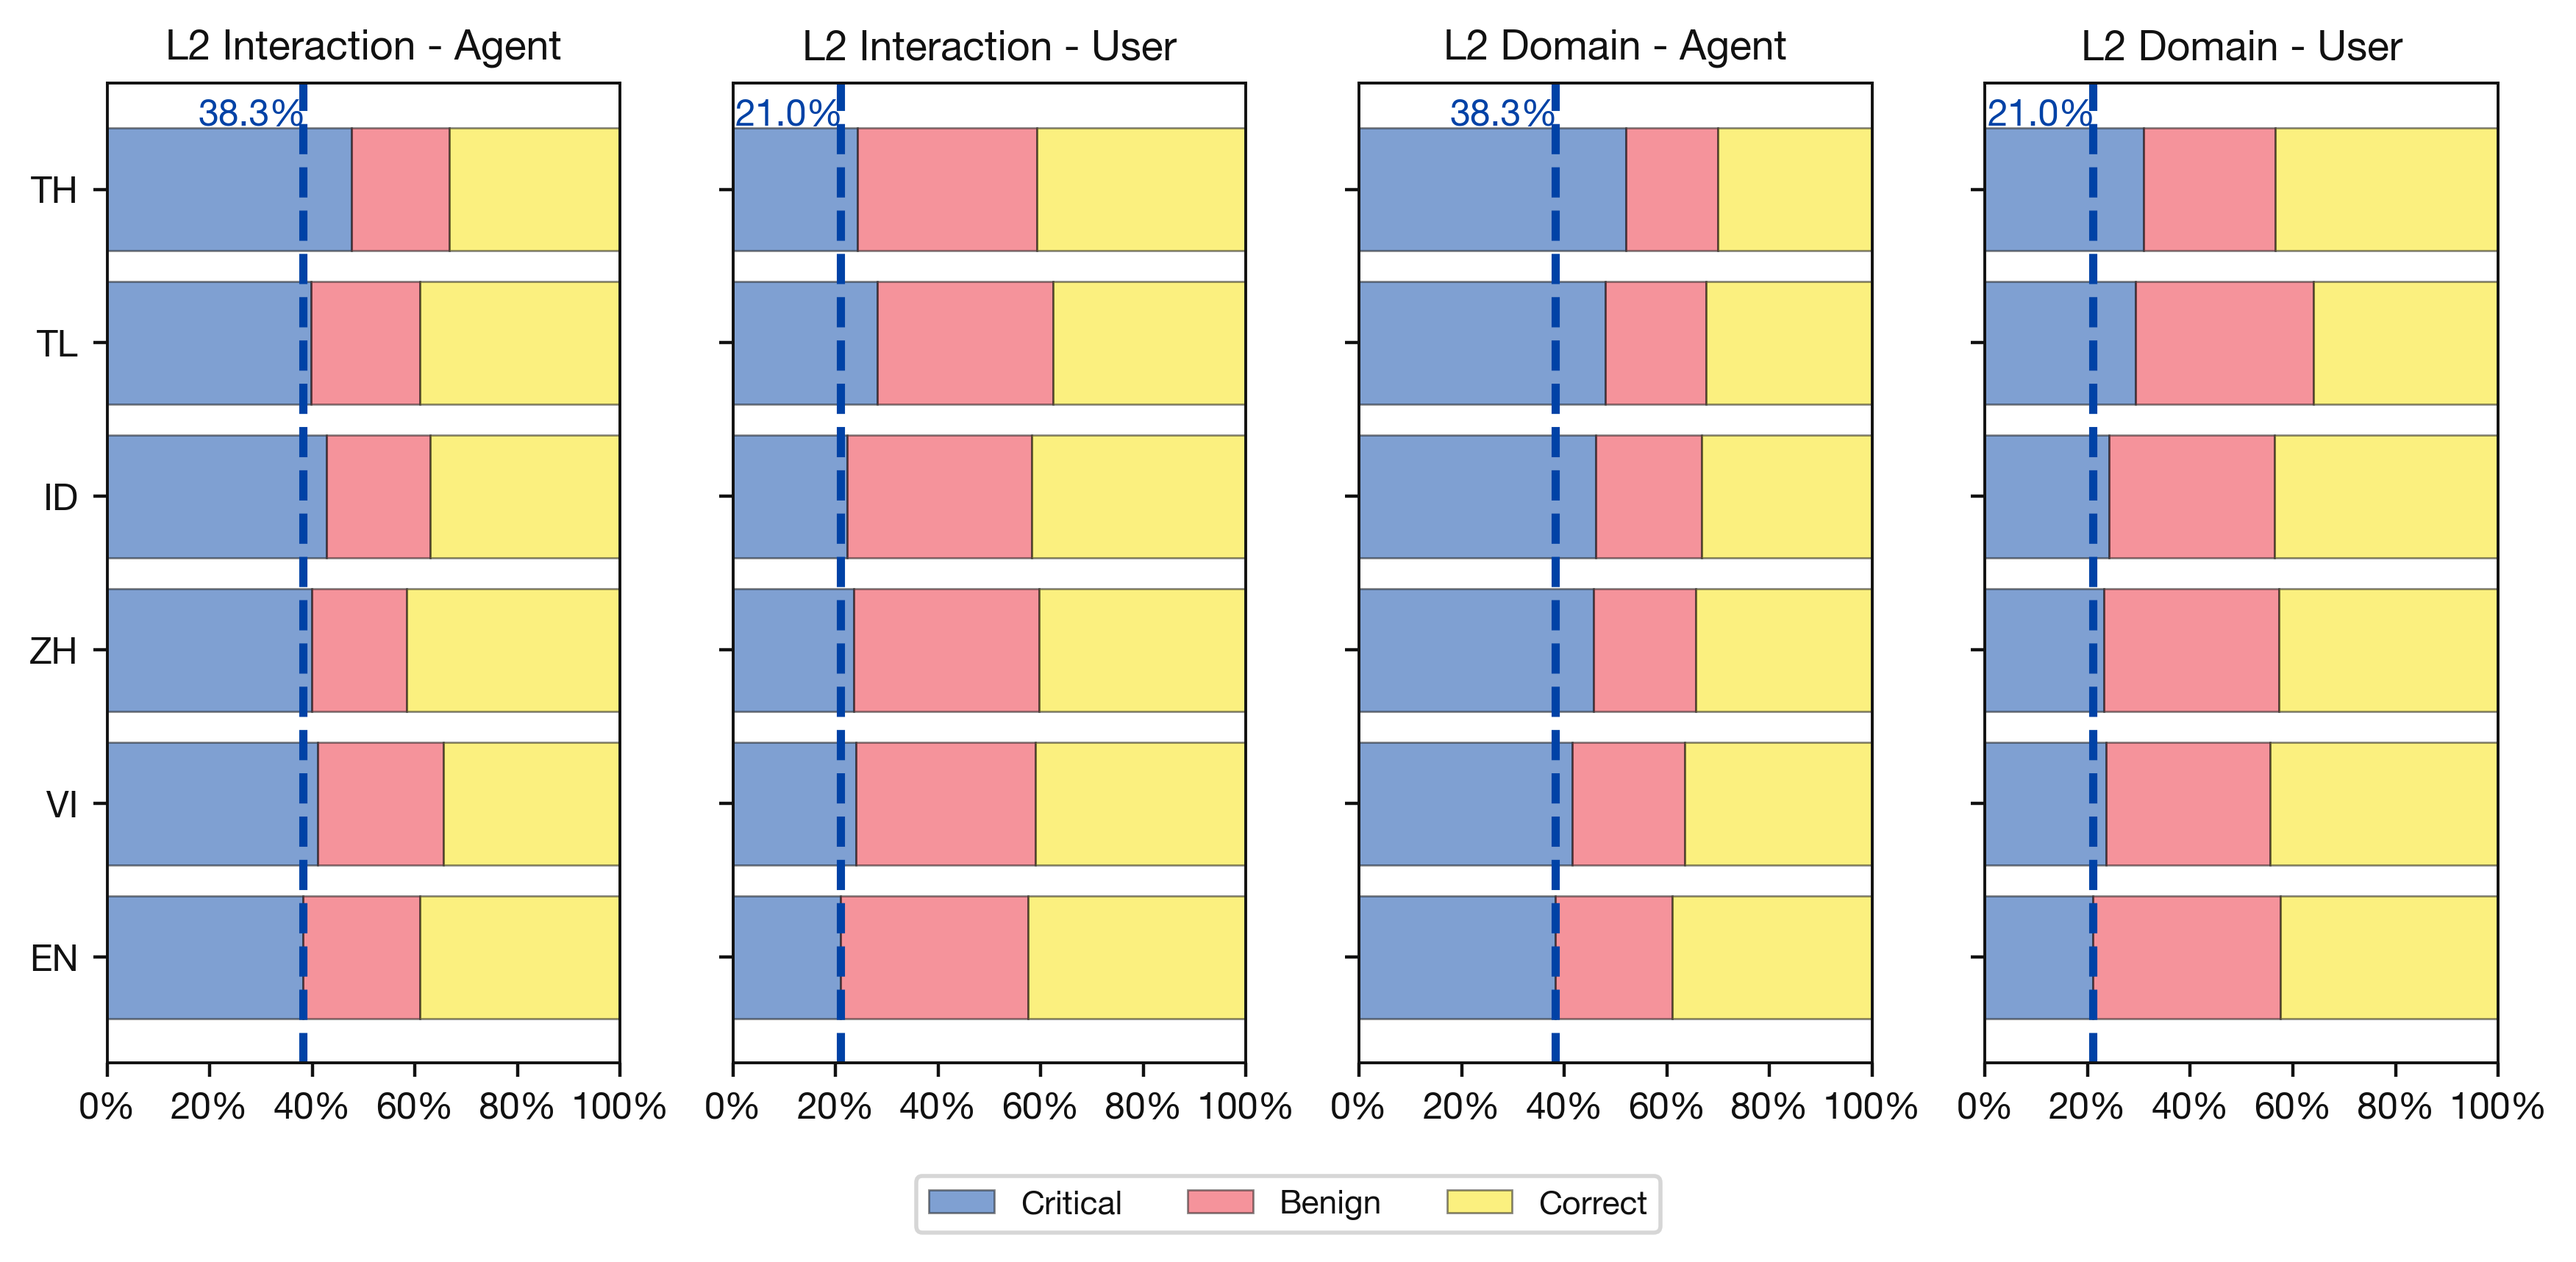
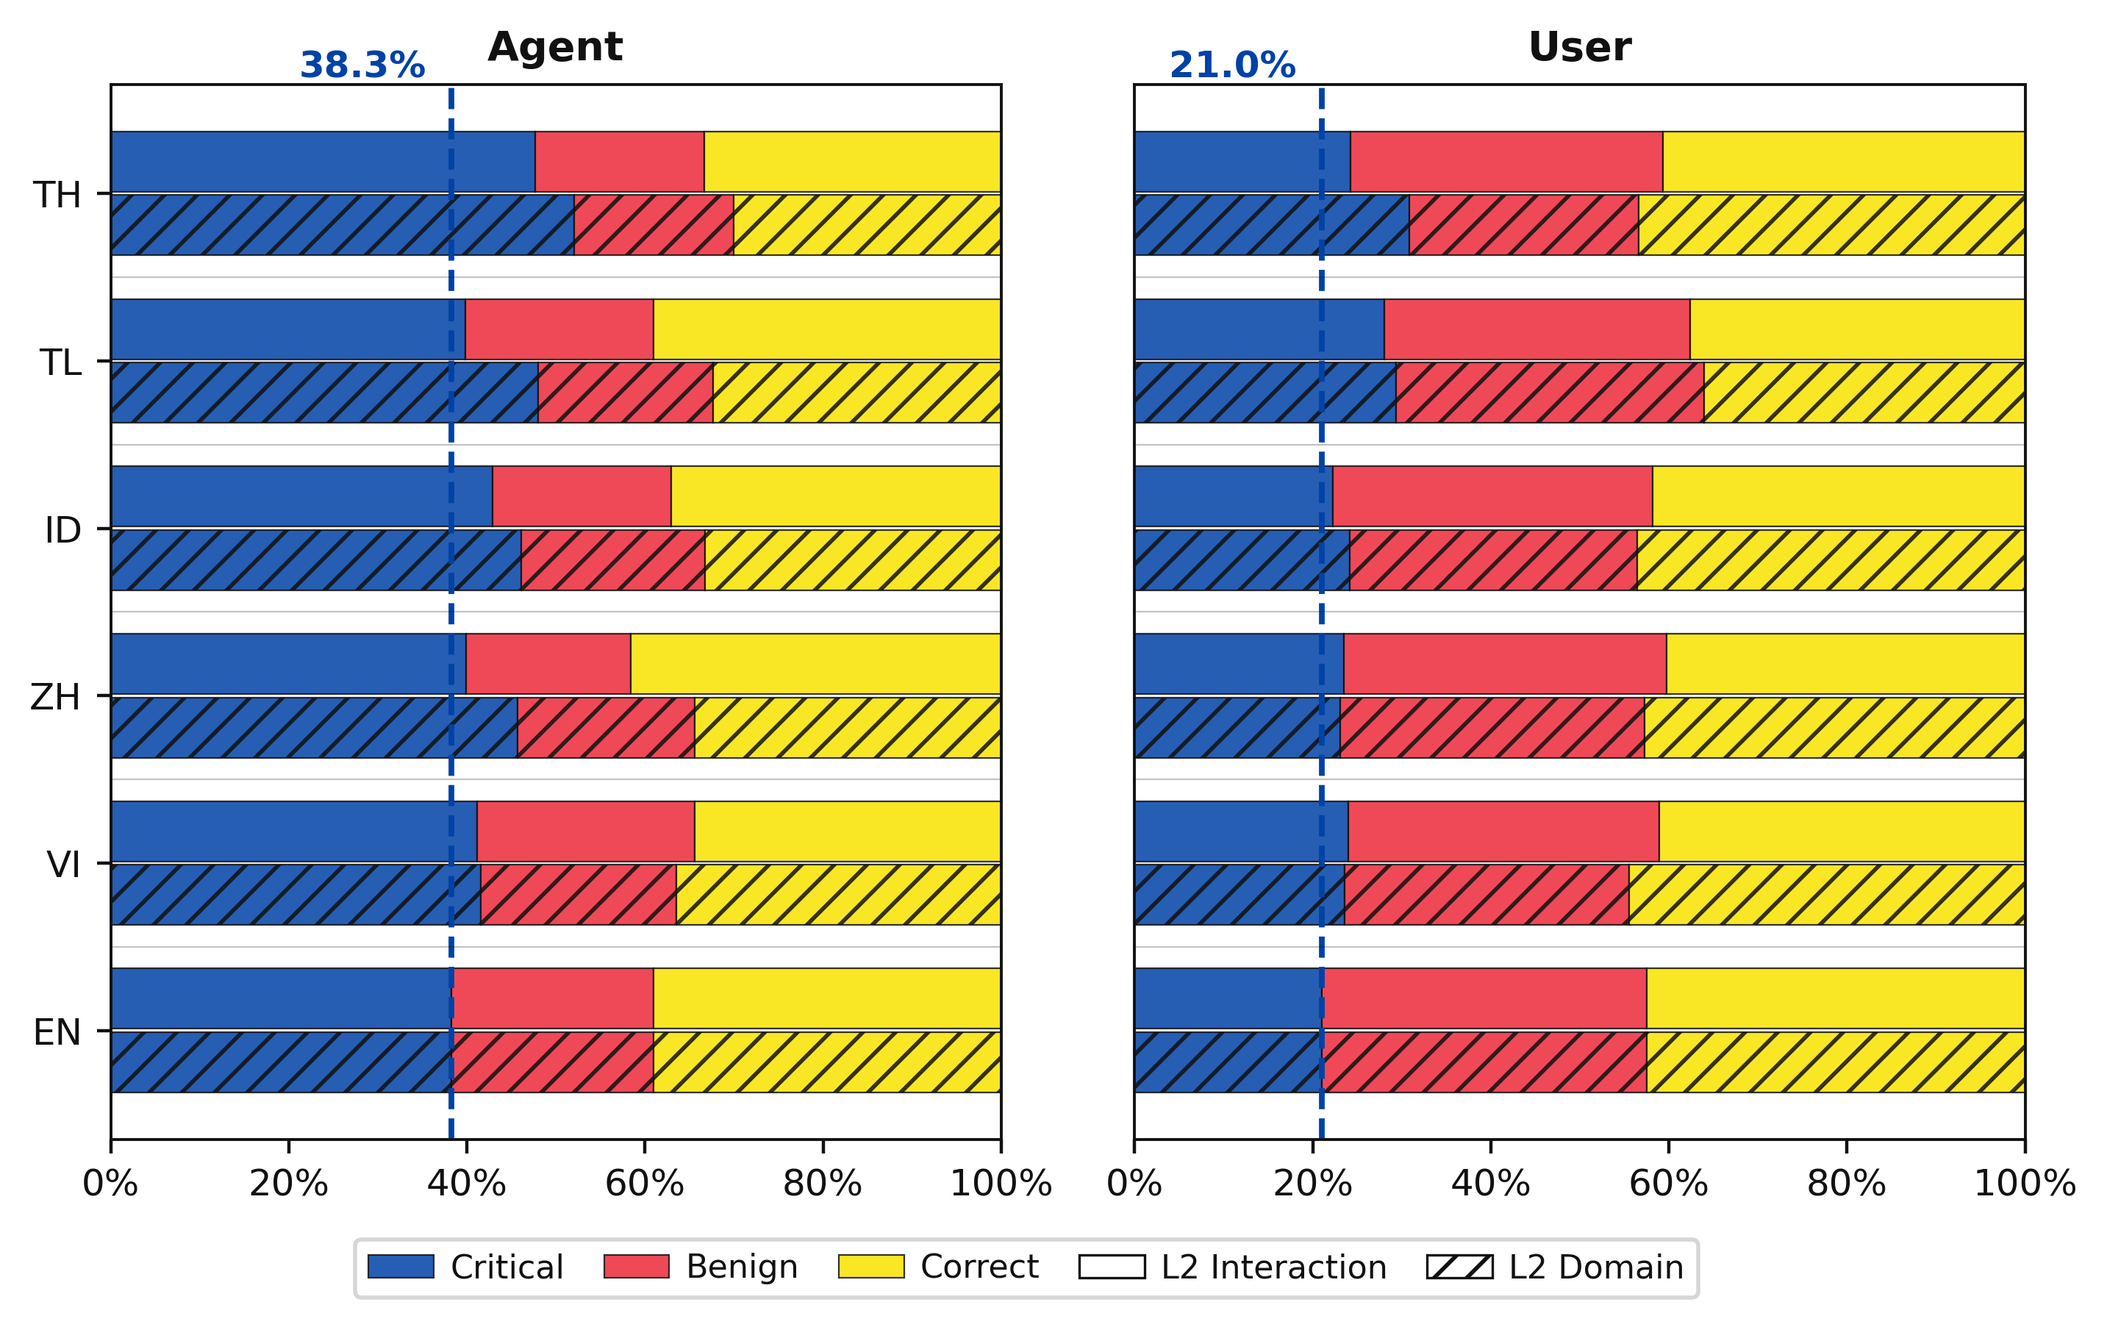
feat(plot): update analysis fig
- fig 5. error breakdown
- fig 7. association between language correctness and performance robustness

diff --git a/src/seatau/plot/error_breakdown.py b/src/seatau/plot/error_breakdown.py
@@ -9,12 +9,13 @@ import matplotlib.pyplot as plt
 import matplotlib.ticker as mtick
 import numpy as np
 import pandas as pd
+from matplotlib.patches import Patch
 
 from seatau.plot.config import (
     DEFAULT_FIG_DIR,
     EXPORT_FORMATS,
     LANGUAGE_LABELS,
-    PLOT_FIGSIZE_TWO_COL_WIDE,
+    PLOT_FIGSIZE_TWO_COL_TALL,
     PLOT_LABEL_SIZE,
     PLOT_LEGEND_SIZE,
     PLOT_TITLE_SIZE,
@@ -44,7 +45,14 @@ def _normalize_parts(frame: pd.DataFrame, columns: list[str]) -> None:
 
 
 def build_figure(df: pd.DataFrame) -> plt.Figure:
-    """Build the stacked horizontal bar figure."""
+    """Build the paired stacked horizontal bar figure.
+
+    Layout: two panels (Agent, User) so the role split is the primary
+    grouping. Within each panel every language gets an adjacent pair of
+    stacked bars -- solid for L2 Interaction, hatched for L2 Domain -- so
+    the scenario comparison is a direct neighboring-bar read rather than a
+    separate panel.
+    """
 
     required_cols = [
         "language",
@@ -64,7 +72,9 @@ def build_figure(df: pd.DataFrame) -> plt.Figure:
 
     settings = ["L2 Interaction", "L2 Domain"]
     who_list = ["agent", "user"]
+    who_titles = {"agent": "Agent", "user": "User"}
     parts = ["critical", "minor", "correct"]
+    hatches = {"L2 Interaction": "", "L2 Domain": "///"}
     base = plot_df.loc[plot_df["setting"].eq("L2 Domain")].copy()
     if base.empty:
         base = plot_df.copy()
@@ -79,82 +89,121 @@ def build_figure(df: pd.DataFrame) -> plt.Figure:
         lang_order = base.sort_values("agent_correct", ascending=False)[
             "language"
         ].tolist()
+    n_lang = len(lang_order)
 
     colors = {
         "critical": SEA_COLORS["blue"],
         "minor": SEA_COLORS["red"],
         "correct": SEA_COLORS["yellow"],
     }
+
+    bar_height = 0.36
+    pair_gap = 0.02
+    group_positions = np.arange(n_lang, dtype=float)
+    offsets = {
+        "L2 Interaction": bar_height / 2 + pair_gap / 2,
+        "L2 Domain": -(bar_height / 2 + pair_gap / 2),
+    }
+
     fig, axes = plt.subplots(
-        1, 4, figsize=PLOT_FIGSIZE_TWO_COL_WIDE, sharex=True, sharey=True
+        1, 2, figsize=PLOT_FIGSIZE_TWO_COL_TALL, sharex=True, sharey=False
     )
-    y_centers = np.arange(len(lang_order))
 
-    for i, (setting_name, who) in enumerate((s, w) for s in settings for w in who_list):
+    for i, who in enumerate(who_list):
         ax = axes[i]
-        sub = plot_df.loc[plot_df["setting"].eq(setting_name)].copy()
-        sub["language"] = pd.Categorical(
-            sub["language"], categories=lang_order, ordered=True
-        )
-        sub = sub.sort_values("language").set_index("language").reindex(lang_order)
-        left = np.zeros(len(lang_order))
-        for part in parts:
-            vals = sub[f"{who}_{part}"].to_numpy()
-            ax.barh(
-                y_centers,
-                vals,
-                left=left,
-                color=colors[part],
-                alpha=0.5,
-                edgecolor=SEA_COLORS["black"],
-                linewidth=0.5,
-                label="Benign" if part == "minor" else part.capitalize(),
+        for setting_name in settings:
+            sub = plot_df.loc[plot_df["setting"].eq(setting_name)].copy()
+            sub["language"] = pd.Categorical(
+                sub["language"], categories=lang_order, ordered=True
             )
-            left += vals
-
-        if "english" in sub.index:
-            ref_critical = sub.loc["english", f"{who}_critical"]
-            if not np.isnan(ref_critical):
-                ax.axvline(
-                    ref_critical,
-                    color=colors["critical"],
-                    linestyle="--",
-                    linewidth=2.0,
+            sub = sub.sort_values("language").set_index("language").reindex(lang_order)
+            y = group_positions + offsets[setting_name]
+            left = np.zeros(n_lang)
+            for part in parts:
+                vals = sub[f"{who}_{part}"].to_numpy()
+                ax.barh(
+                    y,
+                    vals,
+                    left=left,
+                    height=bar_height,
+                    color=colors[part],
+                    alpha=0.85,
+                    edgecolor=SEA_COLORS["black"],
+                    linewidth=0.4,
+                    hatch=hatches[setting_name],
+                    label="Benign" if part == "minor" else part.capitalize(),
                 )
-                ax.text(
-                    ref_critical - 0.1,
-                    0.95,
-                    f"{ref_critical:.1%}",
-                    transform=ax.get_xaxis_transform(),
-                    ha="center",
-                    va="bottom",
-                    fontsize=PLOT_LABEL_SIZE,
-                    color=colors["critical"],
-                    fontweight="bold",
-                )
+                left += vals
 
-        ax.set_title(f"{setting_name} - {who.capitalize()}", fontsize=PLOT_TITLE_SIZE)
+            if "english" in sub.index and setting_name == "L2 Interaction":
+                ref_critical = sub.loc["english", f"{who}_critical"]
+                if not np.isnan(ref_critical):
+                    ax.axvline(
+                        ref_critical,
+                        color=colors["critical"],
+                        linestyle="--",
+                        linewidth=1.4,
+                    )
+                    ax.text(
+                        ref_critical - 0.1,
+                        1.0,
+                        f"{ref_critical:.1%}",
+                        transform=ax.get_xaxis_transform(),
+                        ha="center",
+                        va="bottom",
+                        fontsize=PLOT_LABEL_SIZE,
+                        color=colors["critical"],
+                        fontweight="bold",
+                    )
+
+        ax.set_title(who_titles[who], fontsize=PLOT_TITLE_SIZE)
         ax.set_xlim(0, 1.0)
         ax.set_xticks(np.linspace(0, 1, 6))
         ax.xaxis.set_major_formatter(mtick.PercentFormatter(xmax=1, decimals=0))
-        ax.set_yticks(
-            y_centers,
-            [LANGUAGE_LABELS.get(lang, lang) for lang in lang_order],
-            fontsize=PLOT_LABEL_SIZE,
-        )
         ax.tick_params(axis="x", labelsize=PLOT_LABEL_SIZE)
+        ax.set_ylim(-0.65, n_lang - 0.35)
+        for gy in group_positions[:-1]:
+            ax.axhline(gy + 0.5, color=SEA_COLORS["black"], linewidth=0.4, alpha=0.25)
+        if i == 0:
+            ax.set_yticks(
+                group_positions,
+                [LANGUAGE_LABELS.get(lang, lang) for lang in lang_order],
+                fontsize=PLOT_LABEL_SIZE,
+            )
+        else:
+            ax.set_yticks(group_positions, ["" for _ in group_positions])
+            ax.tick_params(axis="y", length=0)
 
-    handles, labels = axes[0].get_legend_handles_labels()
-    uniq = dict(zip(labels, handles))
+    outcome_handles = [
+        Patch(
+            facecolor=colors[part],
+            alpha=0.85,
+            edgecolor=SEA_COLORS["black"],
+            linewidth=0.4,
+            label="Benign" if part == "minor" else part.capitalize(),
+        )
+        for part in parts
+    ]
+    setting_handles = [
+        Patch(
+            facecolor="white",
+            edgecolor=SEA_COLORS["black"],
+            linewidth=0.6,
+            hatch=hatches[setting_name],
+            label=setting_name,
+        )
+        for setting_name in settings
+    ]
     fig.legend(
-        uniq.values(),
-        uniq.keys(),
-        ncol=3,
+        handles=[*outcome_handles, *setting_handles],
+        ncol=len(outcome_handles) + len(setting_handles),
         loc="lower center",
         fontsize=PLOT_LEGEND_SIZE,
-        bbox_to_anchor=(0.5, 0.01),
+        bbox_to_anchor=(0.5, 0.0),
+        columnspacing=1.2,
+        handletextpad=0.5,
     )
-    fig.tight_layout(rect=(0, 0.08, 1, 0.98))
+    fig.subplots_adjust(left=0.055, right=0.985, top=0.95, bottom=0.135, wspace=0.15)
     return fig
 
 

diff --git a/src/seatau/plot/language_vs_perf.py b/src/seatau/plot/language_vs_perf.py
@@ -1,4 +1,4 @@
-"""Scatter agent language correctness against pass^3."""
+"""Scatter agent language correctness against rho^3."""
 
 from __future__ import annotations
 
@@ -31,19 +31,19 @@ def build_language_vs_perf(
     fig_dir: Path,
     formats: tuple[str, ...] = EXPORT_FORMATS,
 ) -> plt.Figure:
-    """Build and save the correctness-versus-pass^3 scatter plot."""
+    """Build and save the correctness-versus-rho^3 scatter plot."""
 
     df = _read_first_existing_analysis_csv(
         analysis_dir, ("experiment_language_summary.csv", "language_use_summary.csv")
     )
-    df["pass_hat_3"] = pd.to_numeric(df["pass_hat_3"], errors="coerce")
+    df["rho_3"] = pd.to_numeric(df["rho_3"], errors="coerce")
     df["agent_language_correctness"] = pd.to_numeric(
         df["agent_language_correctness"], errors="coerce"
     )
     df = _refresh_crosslingual_language_correctness(
         df, DEFAULT_LANGUAGE_DIAGNOSTICS_DIR
     )
-    df = df.dropna(subset=["pass_hat_3", "agent_language_correctness"])
+    df = df.dropna(subset=["rho_3", "agent_language_correctness"])
     scenario_order = ["english", "l2_tools", "l2_interaction", "l2_domain"]
     scenario_labels = {
         "english": "En Baseline",
@@ -64,50 +64,67 @@ def build_language_vs_perf(
         scenario: frame
         for scenario, frame in df.groupby("scenario", sort=False, dropna=False)
     }
-    if len(df) >= 3:
-        x = df["agent_language_correctness"].to_numpy(dtype=float)
-        y = df["pass_hat_3"].to_numpy(dtype=float)
+    r_squared_values: dict[str, float] = {}
+    fit_lines: dict[str, tuple[np.ndarray, np.ndarray]] = {}
+    for scenario in [*scenario_order, "combined"]:
+        sub = df if scenario == "combined" else grouped.get(scenario)
+        if sub is None or len(sub) < 2:
+            continue
+        x = sub["agent_language_correctness"].to_numpy(dtype=float)
+        y = sub["rho_3"].to_numpy(dtype=float)
+        if np.ptp(x) == 0 or np.ptp(y) == 0:
+            continue
         fit = np.polyfit(x, y, deg=1)
-        x_line = np.linspace(max(0.45, np.nanmin(x)), 1.0, 80)
-        ax.plot(
-            x_line,
-            fit[0] * x_line + fit[1],
-            color=SEA_COLORS["black"],
-            linewidth=1.0,
-            alpha=0.7,
-            zorder=2,
-        )
+        x_line = np.linspace(np.nanmin(x), np.nanmax(x), 80)
+        fit_lines[scenario] = (x_line, fit[0] * x_line + fit[1])
         corr = np.corrcoef(x, y)[0, 1]
-        ax.text(
-            0.03,
-            0.05,
-            f"R²={corr * corr:.3f}",
-            transform=ax.transAxes,
-            ha="left",
-            va="bottom",
-        )
+        r_squared_values[scenario] = float(corr * corr)
     for scenario in scenario_order:
         sub = grouped.get(scenario)
         if sub is None or sub.empty:
             continue
         ax.scatter(
             sub["agent_language_correctness"],
-            sub["pass_hat_3"],
+            sub["rho_3"],
             s=42,
             alpha=0.9,
             color=scenario_colors[scenario],
             edgecolor=SEA_COLORS["black"],
             linewidth=0.25,
-            label=scenario_labels[scenario],
+            label=f"{scenario_labels[scenario]} (R²={r_squared_values[scenario]:.2f})",
             zorder=3,
         )
+    for scenario in [*scenario_order, "combined"]:
+        if scenario not in fit_lines:
+            continue
+        line_color = "#666666" if scenario == "combined" else scenario_colors[scenario]
+        ax.plot(
+            *fit_lines[scenario],
+            color=line_color,
+            linestyle="--" if scenario == "combined" else "-",
+            linewidth=1.25,
+            alpha=0.9,
+            zorder=4,
+        )
+    if "combined" in r_squared_values:
+        ax.text(
+            0.03,
+            0.96,
+            f"R²={r_squared_values['combined']:.2f}",
+            transform=ax.transAxes,
+            color="#666666",
+            ha="left",
+            va="top",
+            fontsize=6.5,
+            fontweight="bold",
+        )
     ax.set_xlabel("Mean agent language correctness")
-    ax.set_ylabel(r"pass$^3$")
+    ax.set_ylabel(r"$\rho^3$")
     ax.set_title(
-        "Language correctness vs. pass$^3$",
+        r"Language correctness vs. $\rho^3$",
         pad=6,
     )
-    ax.set_xlim(0.45, 1.01)
+    ax.set_xlim(0.55, 1.01)
     ax.set_ylim(0, 1.02)
     ax.grid(alpha=0.25)
     despine(ax)

diff --git a/src/seatau/plot/specific_failure_mode_share.py b/src/seatau/plot/specific_failure_mode_share.py
@@ -164,13 +164,15 @@ def build_failure_mode_share_figure(
         aggfunc="sum",
         fill_value=0,
     ).reindex(index=ordered_groups, columns=keep, fill_value=0)
+    # Use six distinct, colorblind-friendly hues so every legend entry has a
+    # unique visual encoding. The first three retain the benchmark palette.
     colors = [
         SEA_COLORS["blue"],
         SEA_COLORS["red"],
         SEA_COLORS["yellow"],
-        SEA_COLORS["black"],
-        SEA_COLORS["red"],
-        SEA_COLORS["black"],
+        "#009E73",  # bluish green
+        "#CC79A7",  # reddish purple
+        "#56B4E9",  # sky blue
     ]
 
     fig, ax = plt.subplots(figsize=PLOT_FIGSIZE_TWO_COL_TALL)
